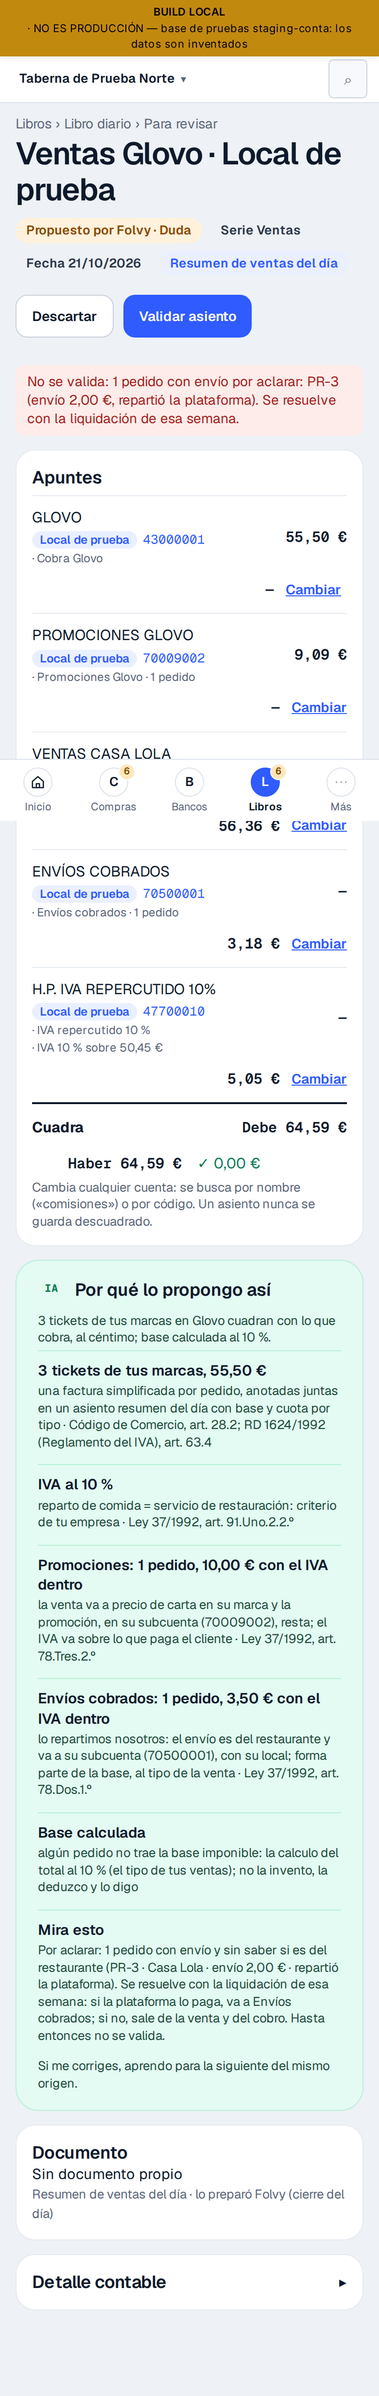
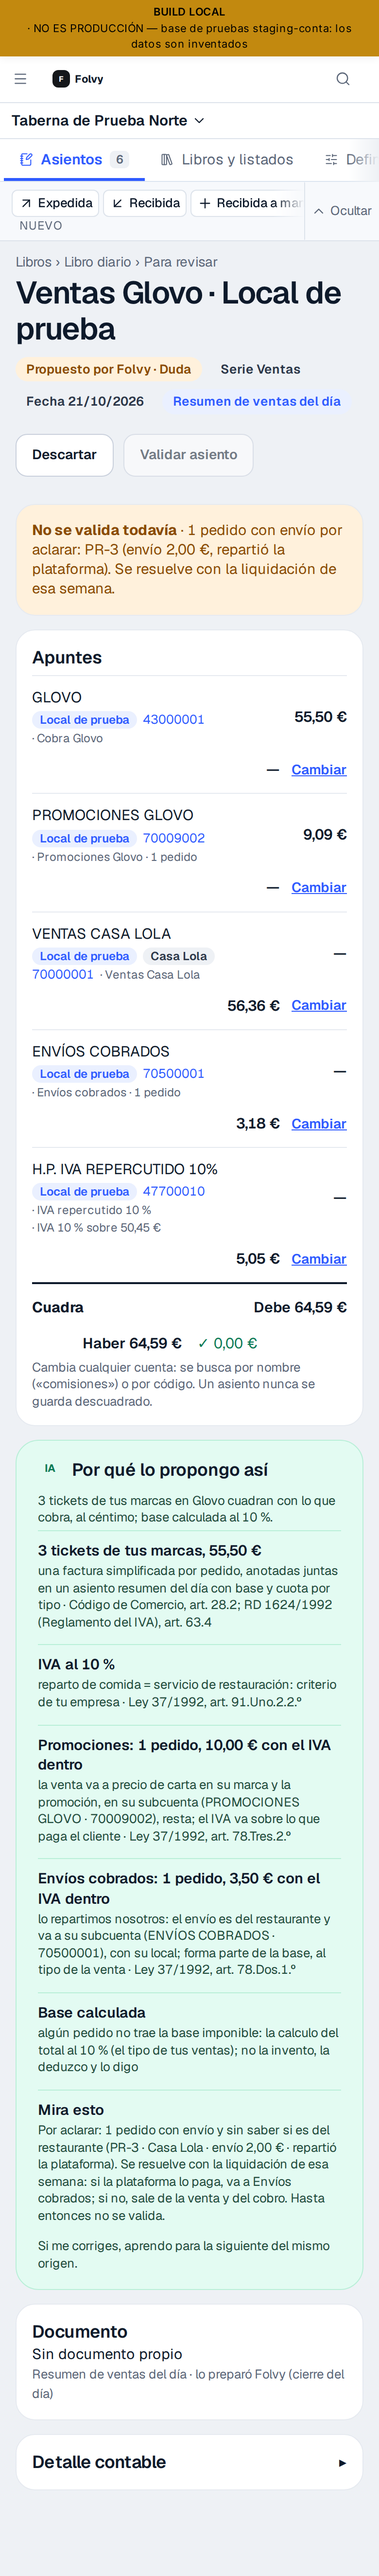
C06b · «Validar asiento» en gris con su motivo cuando la base no lo validaría (un envío a Diez por aclarar, entre otros) (#272)
La pantalla del asiento pregunta a la base conta_motivos_para_validar: los dos botones de validar salen en gris con el motivo, y una franja «No se valida todavía · …» lo dice. Sin tanda; ninguna función que desplegar a mano.

Claude-Session: https://claude.ai/code/session_012QT7a1DXYVhNd7XC8w2p8z

diff --git a/src/modules/conta/libro/AsientoPage.tsx b/src/modules/conta/libro/AsientoPage.tsx
@@ -40,8 +40,14 @@ import { useAnalitica } from '@/modules/conta/marco/nuevo/contexto'
 import { TarjetaExpedida } from '@/modules/conta/libro/FacturaExpedida'
 import { esExpedidaAMano } from '@/modules/conta/lib/expedidaPdf'
 import { useIsMobile } from '@/shell/useIsMobile'
+import { motivosParaValidar } from '@/modules/conta/services/esperanService'
+import { porQueNoSeValida, type MotivoEspera } from '@/modules/conta/lib/esperan'
 
-interface Datos { asiento: AsientoDiario | null; cuentas: CuentaPlan[]; cierres: CierreMes[]; conDiez: ConDiez | null; conDiezError: string | null }
+interface Datos {
+  asiento: AsientoDiario | null; cuentas: CuentaPlan[]; cierres: CierreMes[]; conDiez: ConDiez | null; conDiezError: string | null
+  /** C06b (21/10): por qué no lo validaría la base (conta_motivos_para_validar); null si no se ha podido leer. */
+  motivos: MotivoEspera[] | null; motivosError: string | null
+}
 
 export default function AsientoPage() {
   // S01: el local y la marca de cada apunte, solo con su eje encendido (Definiciones › Analítica).
@@ -64,7 +70,12 @@ export default function AsientoPage() {
         const conDiez = asiento?.origen === 'sales_day'
           ? (await leerConDiez(accountId, activa.id, [asiento.id]).catch((e: unknown) => { conDiezError = e instanceof Error ? e.message : String(e); return new Map<string, ConDiez>() })).get(asiento.id) ?? null
           : null
-        return { asiento, cuentas, cierres, conDiez, conDiezError }
+        // C06b (21/10): lo que haría que la base no lo valide (un envío por aclarar, entre otros), para decirlo antes de pulsar.
+        let motivosError: string | null = null
+        const motivos = asiento && (asiento.estado === 'propuesto' || asiento.estado === 'borrador')
+          ? await motivosParaValidar(asiento.id).catch((e: unknown) => { motivosError = e instanceof Error ? e.message : String(e); return null })
+          : []
+        return { asiento, cuentas, cierres, conDiez, conDiezError, motivos, motivosError }
       })
       .then((d) => { if (vivo) setR({ clave, datos: d, error: null }) },
         (e: unknown) => { if (vivo) setR({ clave, datos: null, error: e instanceof Error ? e.message : String(e) }) })
@@ -136,6 +147,8 @@ export default function AsientoPage() {
   const dosNumeros = numerosFolvyDiez(a, datos.conDiez)
   // 15/10: una plataforma sin patrón en Diez (Glovo) no ofrece «Validar y enviar»: validar no se deshace.
   const sinPatron = datos.conDiez ? motivoSinPatron(datos.conDiez.canal) : null
+  // C06b (21/10): con un motivo de la base (un envío a Diez por aclarar, entre otros), los dos botones de validar en gris y su porqué.
+  const frena = editable ? porQueNoSeValida(datos.motivos ?? []) : null
   // S01e: el porqué en palabras normales, con el nombre junto a cada cuenta.
   const nombres = nombresDeCuentas([...a.apuntes, ...datos.cuentas.map((x) => ({ cuenta: x.code, nombreCuenta: x.nombre }))])
   const llano = (t: string) => palabrasLlanas(t, nombres)
@@ -158,14 +171,20 @@ export default function AsientoPage() {
         </div>
         <div className="cxd-acciones">
           {editable && <button type="button" className="cx-boton-sec" onClick={() => setDialogo('descartar')} disabled={ocupado}>Descartar</button>}
-          {editable && <button type="button" className={datos.conDiez ? 'cx-boton-sec' : 'cx-boton'} onClick={hacerValidar} disabled={ocupado || !c?.cuadra || mes.cerrado}>{ocupado ? 'Validando…' : 'Validar asiento'}</button>}
-          {editable && datos.conDiez && !sinPatron && <button type="button" className="cx-boton" onClick={hacerValidarYEnviar} disabled={ocupado || !c?.cuadra || mes.cerrado}>{ocupado ? 'Validando y enviando…' : 'Validar y enviar a Diez'}</button>}
+          {editable && <button type="button" className={datos.conDiez || frena ? 'cx-boton-sec' : 'cx-boton'} onClick={hacerValidar} disabled={ocupado || !c?.cuadra || mes.cerrado || !!frena} title={frena?.texto ?? undefined}>{ocupado ? 'Validando…' : 'Validar asiento'}</button>}
+          {editable && datos.conDiez && !sinPatron && <button type="button" className={frena ? 'cx-boton-sec' : 'cx-boton'} onClick={hacerValidarYEnviar} disabled={ocupado || !c?.cuadra || mes.cerrado || !!frena} title={frena?.texto ?? undefined}>{ocupado ? 'Validando y enviando…' : 'Validar y enviar a Diez'}</button>}
           {a.estado === 'validado' && a.origen !== 'reversal' && esAdmin && <button type="button" className="cx-boton-sec" onClick={() => setDialogo('anular')}>Anular</button>}
         </div>
       </header>
       <Guardado texto={hecho} />
       {fallo && <div className="cx-error" role="alert">{fallo}</div>}
       {datos.conDiezError && <p className="cx-ayuda cxt-ambar" role="note">No he podido leer cómo está con Diez: {datos.conDiezError}</p>}
+      {editable && frena?.franja && (
+        <div className="cx-tarjeta cxd-franja" role="status" aria-label="Por qué no se valida" data-prueba="no-se-valida">
+          <span><strong>No se valida todavía</strong> · {frena.franja}</span>
+        </div>
+      )}
+      {editable && datos.motivosError && <p className="cx-ayuda cxt-ambar" role="note">No he podido comprobar si se puede validar: {datos.motivosError}. Si no se puede, lo dirá al pulsar.</p>}
       {editable && mes.cerrado && (
         <div className="cx-tarjeta cxd-franja" role="status">
           <span><strong>{nombreMes(mesDe(a.fecha))} está {mes.texto.toLowerCase()}</strong> · {mes.apoyo}. No se valida con esa fecha: desbloquéalo desde el libro o descártalo y lo vuelvo a proponer en el primer día abierto.</span>

diff --git a/tests/e2e/conta/c06/promociones.spec.ts b/tests/e2e/conta/c06/promociones.spec.ts
@@ -6,8 +6,8 @@
 // Capturas en docs/conta/capturas/c06b/, en ordenador y móvil.
 //
 // El asiento lo da la RED, no staging: Playwright contesta la lectura de ESTE
-// asiento (ids inventados c06b9000-…) y, en el «Por aclarar», el intento de
-// validar con lo que dice la base (el freno de la 20261116T0100, probado en
+// asiento (ids inventados c06b9000-…) y, en el «Por aclarar», sus motivos para
+// no validar y el intento de validar con lo que dice la base (el freno de la 20261116T0100, probado en
 // supabase/staging/sql/20261116_c06b_promociones_envios_prueba.sql). Así no se
 // siembra nada en la cuenta A, que comparten los frentes. Las líneas y las
 // razones son las que sacan la base y el espejo del front con el ejemplo del
@@ -70,6 +70,12 @@ async function porLaRed(page: Page) {
     return (r.request().headers()['accept'] ?? '').includes('vnd.pgrst.object') ? json(r, a) : json(r, a ? [a] : [])
   })
   await page.route(/\/rest\/v1\/rpc\/journal_entry_validar/, (r) => json(r, { code: '23514', details: null, hint: null, message: FRENO }, 400))
+  // C06b (21/10): lo que la base diría antes de validar (conta_motivos_para_validar, la misma con la que
+  // para journal_entry_validar): en el «Por aclarar», el envío; en el otro, nada.
+  await page.route(/\/rest\/v1\/rpc\/conta_motivos_para_validar/, (r) => {
+    const entrada = (r.request().postDataJSON() ?? {}) as { p_entry?: string }
+    return json(r, entrada.p_entry === ACLARAR ? [{ orden: 9, codigo: 'envio_por_aclarar', motivo: FRENO }] : [])
+  })
 }
 
 test('Libros: el asiento del día con su promoción (al debe) y su envío cobrado, con sus razones y sus citas', async ({ page }) => {
@@ -95,15 +101,19 @@ test('Libros: el asiento del día con su promoción (al debe) y su envío cobrad
   expect(await loQueTapanSinPregunta(page, '.cx-principal')).toEqual([])
 })
 
-test('Libros: un asiento «Por aclarar» dice qué pedido y por qué, y al validar no se valida y lo dice (regla 8)', async ({ page }) => {
+test('Libros: un asiento «Por aclarar» dice qué pedido y por qué, y «Validar asiento» sale en gris con el motivo de la base antes de pulsar (regla 8)', async ({ page }) => {
   await entrarComo(page, CUENTA_A.email)
   await porLaRed(page)
   await page.goto(`/conta/libros/diario/${ACLARAR}`)
   const ia = page.getByRole('region', { name: 'Por qué lo propongo así' })
   await expect(ia).toContainText('Por aclarar: 1 pedido con envío', { timeout: 20_000 })
   await expect(ia).toContainText('PR-3 · Casa Lola · envío 2,00 € · repartió la plataforma')
-  await page.getByRole('button', { name: 'Validar asiento' }).click()
-  await expect(page.getByText(FRENO)).toBeVisible()
+  // C06b (Julio, 21/10): ya no hace falta pulsar para saberlo. El motivo es el de la base
+  // (conta_motivos_para_validar, la misma con la que para journal_entry_validar).
+  const validar = page.getByRole('button', { name: 'Validar asiento' })
+  await expect(validar).toBeDisabled()
+  await expect(validar).toHaveAttribute('title', FRENO)
+  await expect(page.getByRole('status', { name: 'Por qué no se valida' })).toHaveText(`No se valida todavía · ${FRENO.replace('No se valida: 1', '1')}`)
   await page.evaluate(() => document.fonts.ready)
   mkdirSync(DIR, { recursive: true })
   await page.screenshot({ path: `${DIR}/promociones-por-aclarar-${lado(page)}.png`, fullPage: true })

diff --git a/tests/unit/modules/conta/c06b/porQueNoSeValida.test.ts b/tests/unit/modules/conta/c06b/porQueNoSeValida.test.ts
@@ -1,0 +1,31 @@
+// tests/unit/modules/conta/c06b/porQueNoSeValida.test.ts
+//
+// C06b (Julio, 21/10): «Validar asiento» en gris con su motivo antes de pulsar.
+// Los motivos son los de conta_motivos_para_validar (20261117T0100), con sus
+// códigos y sus textos reales; el del envío por aclarar es el que la base da
+// hoy (el mismo que espera la e2e c06/promociones).
+
+import { describe, expect, it } from 'vitest'
+import { porQueNoSeValida } from '@/modules/conta/lib/esperan'
+
+const ACLARAR = { codigo: 'envio_por_aclarar', motivo: 'No se valida: 1 pedido con envío por aclarar: PR-3 (envío 2,00 €, repartió la plataforma). Se resuelve con la liquidación de esa semana.' }
+const MES = { codigo: 'mes_cerrado', motivo: 'El mes de septiembre está cerrado.' }
+const CUADRA = { codigo: 'no_cuadra', motivo: 'No cuadra: Debe 10.00 y Haber 9.00, diferencia 1.00.' }
+
+describe('por qué no se valida un asiento', () => {
+  it('sin motivos de la base, se puede validar', () => {
+    expect(porQueNoSeValida([])).toBeNull()
+  })
+  it('con un envío por aclarar, bloquea y lo dice con el texto de la base', () => {
+    expect(porQueNoSeValida([ACLARAR])).toEqual({ bloquea: true, texto: ACLARAR.motivo, codigos: ['envio_por_aclarar'],
+      franja: '1 pedido con envío por aclarar: PR-3 (envío 2,00 €, repartió la plataforma). Se resuelve con la liquidación de esa semana.' })
+  })
+  it('el mes cerrado bloquea, pero no se repite: ya tiene su franja', () => {
+    expect(porQueNoSeValida([MES])).toEqual({ bloquea: true, texto: null, franja: null, codigos: ['mes_cerrado'] })
+  })
+  it('varios motivos, en el orden de la base y sin el del mes', () => {
+    expect(porQueNoSeValida([CUADRA, MES, ACLARAR])?.texto).toBe(`${CUADRA.motivo} ${ACLARAR.motivo}`)
+    // En la franja, el «No cuadra» queda igual y al del envío se le quita el «No se valida:».
+    expect(porQueNoSeValida([CUADRA, MES, ACLARAR])?.franja).toBe(`${CUADRA.motivo} 1 pedido con envío por aclarar: PR-3 (envío 2,00 €, repartió la plataforma). Se resuelve con la liquidación de esa semana.`)
+  })
+})

diff --git a/src/modules/conta/lib/esperan.ts b/src/modules/conta/lib/esperan.ts
@@ -77,3 +77,27 @@ export function localDelAsiento(apuntes: readonly { local: string | null; comun:
 export function primerMotivo(motivos: readonly MotivoEspera[] | undefined): string | null {
   return motivos && motivos.length ? motivos[0].motivo : null
 }
+
+/** Los motivos que la pantalla del asiento ya dice con su propia franja: no se repiten. */
+const YA_DICHOS: ReadonlySet<string> = new Set(['mes_cerrado'])
+
+/**
+ * C06b (Julio, 21/10): por qué no se valida un asiento, dicho antes de pulsar.
+ * `bloquea` deja los dos botones de validar en gris (con cualquier motivo de la
+ * base, también los que ya tienen su franja); `texto` es lo que se enseña y el
+ * `title` del botón: los motivos que la pantalla no dice ya, en su orden. Sin
+ * motivos, null: se puede validar.
+ */
+export function porQueNoSeValida(motivos: readonly MotivoEspera[]): { bloquea: true; texto: string | null; franja: string | null; codigos: string[] } | null {
+  if (!motivos.length) return null
+  const nuevos = motivos.filter((m) => !YA_DICHOS.has(m.codigo))
+  const texto = nuevos.length ? nuevos.map((m) => m.motivo).join(' ') : null
+  // La franja ya dice «No se valida todavía»: sin repetir el «No se valida:» con que empiezan algunos motivos.
+  const franja = nuevos.length ? nuevos.map((m) => sinNoSeValida(m.motivo)).join(' ') : null
+  return { bloquea: true, texto, franja, codigos: motivos.map((m) => m.codigo) }
+}
+
+function sinNoSeValida(motivo: string): string {
+  const resto = motivo.replace(/^No se valida:\s*/, '')
+  return resto === motivo ? motivo : resto.charAt(0).toUpperCase() + resto.slice(1)
+}

diff --git a/src/modules/conta/services/esperanService.ts b/src/modules/conta/services/esperanService.ts
@@ -21,3 +21,14 @@ export async function leerEsperan(companyId: string, desde = '1900-01-01', hasta
   }
   return out
 }
+
+/**
+ * C06b (Julio, 21/10): los motivos por los que la base no validaría ESTE
+ * asiento, en orden, con el mismo texto con el que lo para
+ * (conta_motivos_para_validar(p_entry) → orden, codigo, motivo). Vacío: se
+ * puede validar. Es lo que deja «Validar asiento» en gris antes de pulsar.
+ */
+export async function motivosParaValidar(entryId: string): Promise<MotivoEspera[]> {
+  const filas = ((await rpc<Fila[] | null>('conta_motivos_para_validar', { p_entry: entryId })) ?? [])
+  return [...filas].sort((a, b) => Number(a.orden) - Number(b.orden)).map((f) => ({ codigo: String(f.codigo), motivo: String(f.motivo) }))
+}
